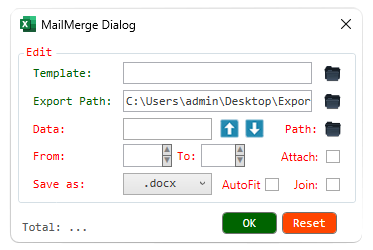
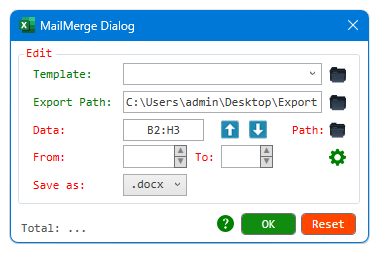
ok

diff --git a/r.mailmerge.html b/r.mailmerge.html
@@ -14,15 +14,14 @@
     </h1>
 
     <p>
-    <div>● Trộn dữ liệu từ Excel sang Word mở rộng.</div>
+    <div>● Chương trình trộn dữ liệu từ Excel sang Word nhanh chóng, đơn giản và tốt nhất hiện nay.</div>
     </p>
 
     <p>
         <hr style="height:1px;border-width:0;color:lightgray;background-color:lightgray">
-                    
     </p>
     <blockquote>
-        <p>&nbsp;Ảnh thiết lập hộp thoại.</p>
+        <p>&nbsp;Ảnh giao diện hộp thoại.</p>
     </blockquote>
 
     <img src="gif/r.mailmerge.png">
@@ -30,6 +29,12 @@
         <p>&nbsp;Minh họa ảnh dữ liệu trước và sau khi trộn.</p>
     </blockquote>
     <img src="gif/r.mailmerge.demo.png">
+
+    <blockquote>
+        <p>&nbsp;Các thiết lập khác:</p>
+    </blockquote>
+
+    <img src="gif/r.mailmerge.settings.png">
 
     <p tabindex="-1" dir="auto">
         <note>
@@ -42,19 +47,19 @@
            <font style="vertical-align: inherit;">Tính năng:</font>
         </note>
      </p>
-    <blockquote>
-        <!-- <p>&nbsp;   1. Mặc định các trường dữ liệu thông thường (Number, Text,..) không cần tiền tố (vd: Ngày tháng, Họ Tên,..).</p>
+    <blockquote><!-- <p>&nbsp;   1. Mặc định các trường dữ liệu thông thường (Number, Text,..) không cần tiền tố (vd: Ngày tháng, Họ Tên,..).</p>
         <p>&nbsp;   2. Để trộn dữ liệu kèm Hypelink, đặt tên cột với tiền tố "H_"</p>
-        <p>&nbsp;   3. Để đính kèm hình ảnh cục bộ hoặc ảnh Web, đặt tên cột với tiền tố "I_"</p>
-        <p>&nbsp;   3. Nếu ảnh nằm trong thư mục, chỉ cần khai báo tên ảnh (vd: Logo.png,..), nếu ảnh Web khai báo full URL.(vd: https://../weeping.gif).</p>
-        <p>&nbsp;   4. Để trộn dữ liệu là bảng (Table) từ các file Word, đặt tên cột với tiền tố "T_", hậu tố tên bất kỳ hoặc vị trí bảng (vd: T_2 sẽ trộn bảng thứ 2).</p>
-        <p>&nbsp;   4. Để trộn dữ liệu là bảng (Table) từ các file Excel, đặt tên cột với tiền tố "T_" và hậu tố là tên NameRange/Table của bảng.</p>
-        <p>&nbsp;   4. Mặc định chiều rộng cột của bảng (Table) được cố định, để thay đổi kích thước cột tích mục [Autofit].</p> 
+        <p>&nbsp;   3.1 Để đính kèm hình ảnh cục bộ hoặc ảnh Web, đặt tên cột với tiền tố "I_"</p>
+        <p>&nbsp;   3.2 Nếu ảnh nằm trong thư mục, chỉ cần khai báo tên ảnh (vd: Logo.png,..), nếu ảnh Web khai báo full URL.(vd: https://../weeping.gif).</p>
+        <p>&nbsp;   4.1 Để trộn dữ liệu là bảng (Table) từ các file Word, đặt tên cột với tiền tố "T_", hậu tố tên bất kỳ hoặc vị trí bảng (vd: T_2 sẽ trộn bảng thứ 2).</p>
+        <p>&nbsp;   4.1 Để trộn dữ liệu là bảng (Table) từ các file Excel, đặt tên cột với tiền tố "T_" và hậu tố là tên NameRange/Table của bảng.</p>
+        <p>&nbsp;   4.2 Mặc định chiều rộng cột của bảng (Table) được cố định, để thay đổi kích thước cột tích mục [1] Settings.</p> 
+        <p>&nbsp;   4.2 Mặc định bảng chỉ sử dụng một tiêu đề duy nhất, để duy trì tiêu đề khi phân trang tích mục [2] Settings.</p> 
         <p>&nbsp;   5. Các hình ảnh có thể đặt trong thư mục bất kỳ, tuy nhiên cần thêm địa chỉ các thư mục này vào mục [Path].</p>
         <p>&nbsp;   6. Đảm bảo các dữ liệu hợp lệ (ví dụ tên gmail, tên ảnh, web link, tên Table..) trước khi chạy chương trình.</p>
-        <p>&nbsp;   7. Để đính kèm ảnh trực tiếp vào File, tích chọn mục [Attach], sau đó bạn có thể gửi file trực tiếp cho người nhận mà không cần đính kèm ảnh.</p>
-        <p>&nbsp;   7. Nếu không [Attach], bạn cần gửi file và cả thư mục ảnh đính kèm cho người nhận.</p>
-        <p>&nbsp;   8. Mặc định, mỗi hàng xuất ra một file, để nối tất cả các file với nhau, tích chọn mục [Join Files].</p>
+        <p>&nbsp;   7.1 Để đính kèm ảnh trực tiếp vào File, tích chọn mục [3] Settings, sau đó bạn có thể gửi file trực tiếp cho người nhận mà không cần đính kèm ảnh.</p>
+        <p>&nbsp;   7.2 Nếu không đính kèm, bạn cần gửi file và cả thư mục ảnh đính kèm cho người nhận.</p>
+        <p>&nbsp;   8. Mặc định, mỗi hàng xuất ra một file, để nối tất cả các file với nhau, tích chọn mục [4] Settings.</p>
         <p>&nbsp;   9. Mặc định, tất cả các hàng được xuất, nếu muốn xuất trên một vùng nhất định nhập vị trí dòng [From] to [To] .</p> -->
         <img src="gif/r.mailmerge.note.png">
         <p>&nbsp;Xem bộ video <a href="https://www.youtube.com/playlist?list=PLws3E1ZlauHHEKwQZuKL9z6USu_X5z2x_"
@@ -76,7 +81,7 @@
         </note>
      </p>
     <blockquote>
-        <p>&nbsp;1. Cột cuối cùng được sử dụng để đặt tên File Word được xuất (Tên file không chứa đuôi extension).</p>
+        <p>&nbsp;1. Cột cuối cùng được sử dụng để đặt tên File Word được xuất (Tên file không chứa extension).</p>
         <p>&nbsp;2. Nếu gộp File, tên File đầu tiên sẽ được lựa chọn để xuất ra.</p>
         <p>&nbsp;3. Thư mục xuất ra [Export] nên được để trống, vì dữ liệu trong thư mục này sẽ luôn được xóa và xuất mỗi khi chạy chương trình.</p>
         <p>&nbsp;4. Khi trộn bảng từ Excel hoặc Word, các tên bảng [Name] trên Excel và [Field] tương ứng trong Word phải khớp nhau.</p>

diff --git a/index.ribbon.html b/index.ribbon.html
@@ -34,7 +34,7 @@
       <div class="col">
          <div class="content">
             <!-- ０ １ ２ ３ ４ ５ ６ ７ ８ ９ -->
-            <h1>ＡＵＥＸＰＲＥＳＳ - １０.２.５.９５
+            <h1>ＡＵＥＸＰＲＥＳＳ - １０.２.６.１
                <a href="interface"><button class="button button4" style="float: right;"><b>Download Trial</b></button></a>
 
             </h1>

diff --git a/index.html b/index.html
@@ -33,7 +33,7 @@
       <div class="col">
          <div class="content">
             <!-- ０ １ ２ ３ ４ ５ ６ ７ ８ ９ -->
-            <h1>ＡＵＥＸＰＲＥＳＳ - １０.２.５.９５
+            <h1>ＡＵＥＸＰＲＥＳＳ - １０.２.６.１
                <a href="interface"><button class="button button4" style="float: right;"><b>Buy Now!</b></button></a>
 
             </h1>

diff --git a/index.function.html b/index.function.html
@@ -34,7 +34,7 @@
       <div class="col">
          <div class="content">
             <!-- ０１２３４５６７８９ -->
-            <h1>ＡＵＥＸＰＲＥＳＳ - １０.２.５.９５
+            <h1>ＡＵＥＸＰＲＥＳＳ - １０.２.６.１
                <a href="interface"><button class="button button4" style="float: right;"><b>Download Trial</b></button></a>
 
             </h1>

diff --git a/latest updates.html b/latest updates.html
@@ -9,7 +9,7 @@
 </head>
 
 <body>
-    <h1> Latest update [10.2.5.96]
+    <h1> Latest update [10.2.6.1]
         <a href="interface"><button class="button button4" style="float: right;"><b>Download</b></button></a>
     </h1>
 
